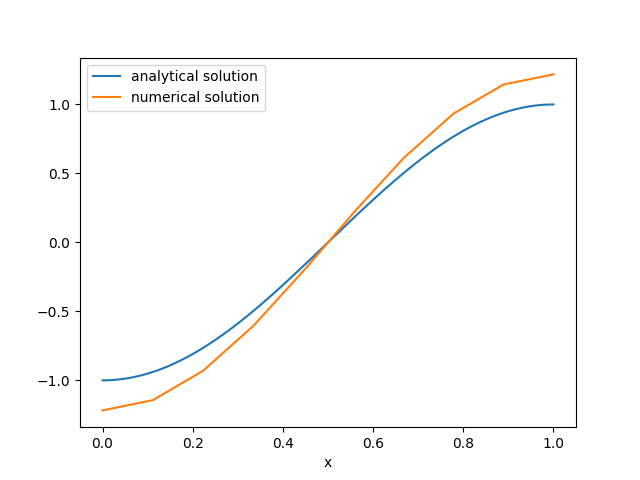
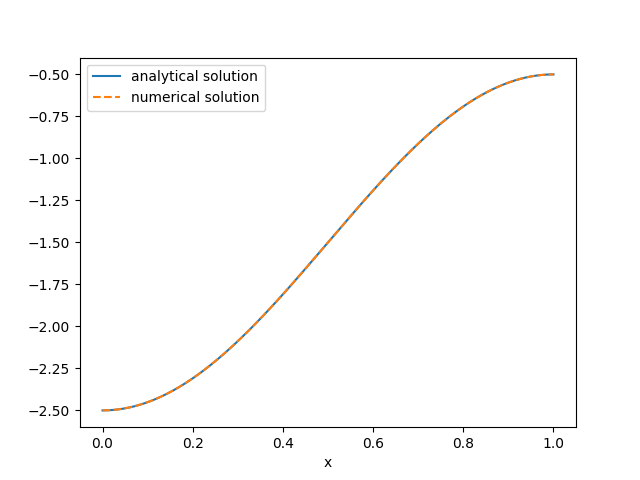
now seems to work

diff --git a/geometry_calculation/calculate_B1_numerically.py b/geometry_calculation/calculate_B1_numerically.py
@@ -20,7 +20,7 @@ def finite_element_solver(N, x, f, a, Bc0, Bc1):
 		phi[i, sta_index:top_index]   = np.linspace(0, 1, top_index-sta_index)
 		phi[i, top_index:end_index]   = np.linspace(1, 0, end_index-top_index)
 	
-	phi[-1, -1] = 1 #some times the last element is not included, and is therefore set to zero if this is not odne
+	phi[-1, -1] = 1 #some times the last element is not included, and is therefore set to zero if this is not done
 
 
 	#calculate matrix elements using analytical results
@@ -38,17 +38,19 @@ def finite_element_solver(N, x, f, a, Bc0, Bc1):
 		A[i, i+1]   += 1
 		A[i+1, i+1] += 2
 
-	print(A)
-	print(A_p)
-	A *= Delta_x*a/6
 	A_p *= 1/Delta_x
+	A   *= a*Delta_x/6 # a=k^2
+
+	#maybe something like this?
+	#A_p[0, 0]   += 0 
+	#A_p[-1, -1] += 1
 
 	#calculate source vector
 	for i in range(len(b)):
 		b[i] = -Delta_x*(f[np.argmin(abs(x-(N_pos[i]+Delta_x/2)))] + f[np.argmin(abs(x-(N_pos[i]-Delta_x/2)))])/2
 
-	b[0]  = -Delta_x*(f[np.argmin(abs(x-(N_pos[0] +Delta_x/2)))])/2
-	b[-1] = -Delta_x*(f[np.argmin(abs(x-(N_pos[-1]-Delta_x/2)))])/2
+	b[0]  = -Delta_x*(f[np.argmin(abs(x-(N_pos[0] + Delta_x/2)))])/2
+	b[-1] = -Delta_x*(f[np.argmin(abs(x-(N_pos[-1]- Delta_x/2)))])/2
 
 	#if derivative is non-zero at boundary
 	b[0]   -= Bc0
@@ -59,33 +61,41 @@ def finite_element_solver(N, x, f, a, Bc0, Bc1):
 	#transfer back solution to regular basis
 	for i in range(N):
 		u += sol[i]*phi[i, :]
+
 	return u
 
-"""
+
 N = 100
 x = np.linspace(0, 1, int(pow(10, 5)))
-f = (1+np.pi*np.pi)*np.sin(np.pi*x)
-sol = finite_element_solver(N, x, f, -1, -np.pi, np.pi)
+f = (1+np.pi*np.pi)*np.sin(np.pi*x)-2
+sol = finite_element_solver(N, x, f, 1, -np.pi, np.pi)
 
-plt.plot(x, -np.sin(np.pi*x), label="analytical solution")
-plt.plot(x[:-1], sol[:-1], label="numerical solution")
+ana = -np.sin(np.pi*x)+2
+plt.plot(x, ana, label="analytical solution")
+plt.plot(x[:-1], sol[:-1], "--", label="numerical solution")
 plt.xlabel("x")
 plt.legend(loc="best")
 plt.savefig("figures/test_FE_1.png")
 plt.show()
-"""
+
+plt.plot(x[:-1], abs(ana[:-1]-sol[:-1])/abs(ana[:-1]))
+plt.show()
 
 
-N = 10
+N = 100
 x = np.linspace(0, 1, int(pow(10, 5)))
-f = (1+np.pi*np.pi)*np.cos(np.pi*x)
-sol = finite_element_solver(N, x, f, -1, 0,0)
+f = (1+np.pi*np.pi)*np.cos(np.pi*x)+1.5
+sol = finite_element_solver(N, x, f, 1, 0, 0)
 
-plt.plot(x, -np.cos(np.pi*x), label="analytical solution")
-plt.plot(x, sol, label="numerical solution")
+ana = -np.cos(np.pi*x)-1.5
+plt.plot(x, ana, label="analytical solution")
+plt.plot(x, sol, "--", label="numerical solution")
 plt.xlabel("x")
 plt.legend(loc="best")
 plt.savefig("figures/test_FE_2.png")
+plt.show()
+
+plt.plot(x[:-1], abs(ana[:-1]-sol[:-1])/abs(ana[:-1]))
 plt.show()
 
 
